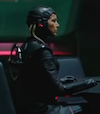
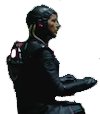
fix:オビワンに出てくる尋問官画像の背景透過

diff --git a/Posters/Inquisitorius/index.html b/Posters/Inquisitorius/index.html
@@ -166,6 +166,7 @@
             <tr><td>The Grand Inquisitor</td><td><img src="1st.png" style="width:100px; bottom:-10px;"></td><td><img src="1st_l.png"></td><td>Pau'an</td><td>Male</td><td><span class="spoiler">4 BBY, Sovereign, Mustafar system</span></td><td>
               <ul>
                 <li>コミック<cite>シスの暗黒卿</cite></li>
+                <li>ドラマ<cite>オビ=ワン・ケノービ</cite></li>
                 <li>アニメ<cite>反乱者たち</cite></li>
                 <li class="spoiler">コミック<cite>Star Wars (2020)</cite></li>
               </ul>
@@ -184,6 +185,7 @@
             <tr><td>5th Brother</td><td><img src="5th.png" style="width:350px; bottom:-20px; left:-100px;"></td><td><img src="5th_l.png"></td><td>?</td><td>Male</td><td><span class="spoiler">3 BBY, Malachor</span></td><td>
               <ul>
                 <li>コミック<cite>シスの暗黒卿</cite></li>
+                <li>ドラマ<cite>オビ=ワン・ケノービ</cite></li>
                 <li>アニメ<cite>反乱者たち</cite></li>
               </ul>
             </td></tr>
